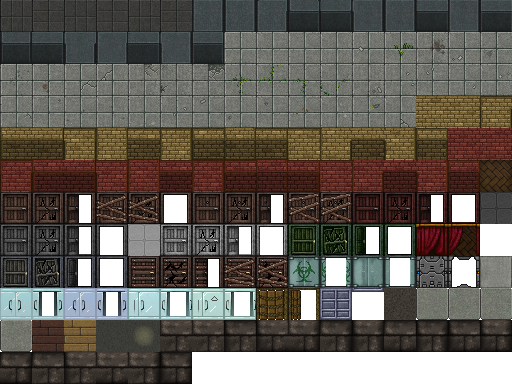
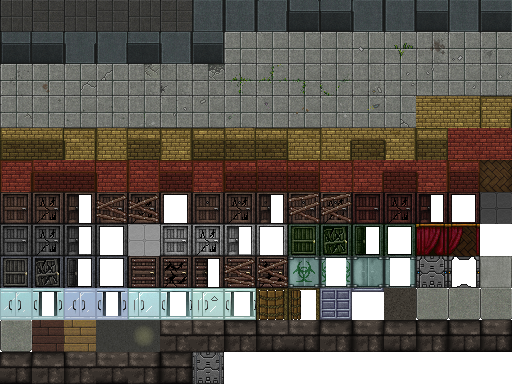
feat: welding metal doors shut, related updates (#6182)
* feat: welding metal doors shut, related updates

* Update json_flags.md

* Update terrain-doors.json

* updates per feedback

* Wrong door dummy

* Lil more thingies

* Update external_tileset.md

* I feex

Changed region(s): [[0.375, 0.9062, 0.4375, 1.0]]

diff --git a/doc/src/content/docs/en/mod/json/reference/graphics/external_tileset.md b/doc/src/content/docs/en/mod/json/reference/graphics/external_tileset.md
@@ -56,6 +56,7 @@ Links to relevant pull requests, for content covered below:
 - More tooth and bone weapons, triffid weapons:
   [#5712](https://github.com/cataclysmbnteam/Cataclysm-BN/pull/5712)
 - Treetops ported from DDA: [#5167](https://github.com/cataclysmbnteam/Cataclysm-BN/pull/5167)
+- Ability to weld shut doors: [#6182](https://github.com/cataclysmbnteam/Cataclysm-BN/pull/6182)
 
 ## Undead People
 
@@ -76,10 +77,6 @@ Ultica are planned for the future.
 - Large leather-reinforced shield, including worn and wielded. Item specific to BN.
 - Banded shield, including worn and wielded. Item specific to BN.
 - Large banded shield, including worn and wielded. Item specific to BN.
-- Swapped spring and summer sprites (the latter not depicting young berries) for blueberry bush, as
-  harvest season has been moved in BN.
-- Swapped spring and summer sprites (the latter not depicting young berries) for strawberry bush, as
-  harvest season has been moved in BN.
 - Fixed worn sprite for `woodgreatbow`, as it had a sprite error in its UDP version.
   `Note: this can be removed once UDP is updated in BN, as the fix has been published in the source repository.`
 - Overriding sprite for `compgreatbow`, as its version in BN is modeled after a composite bow
@@ -113,6 +110,9 @@ Ultica are planned for the future.
 
 - Rice paddies. Terrain specific to BN.
 - Niter beds. Terrain specific to BN.
+- Swapped spring and summer sprites (the latter not depicting young berries) for blueberry bush, as
+  harvest season has been moved in BN.
+- Welded-shut metal doors including peephole, bulkhead, lab door, and bar doors. Terrain specific to BN.
 
 ### External_Tileset_DP_Tall.png
 

diff --git a/doc/src/content/docs/en/mod/json/reference/json_flags.md b/doc/src/content/docs/en/mod/json/reference/json_flags.md
@@ -631,6 +631,10 @@ List of known flags, used in both `terrain.json` and `furniture.json`.
   smashed instead of destroying the tile beneath it.
 - `WALL` This terrain is an upright obstacle. Used for fungal conversion, and also implies
   `CONNECT_TO_WALL`.
+- `WELDABLE_DOOR` The "weld shut metal door" construction will convert this terrain into `t_door_metal_welded`.
+- `WELDABLE_BARS` As above, but converts to `t_door_metal_welded_bars` instead. If you want it to convert
+  into specific terrain instead, add a separate construction entry to the `weld_shut_metal_door` construction
+  group that uses `pre_terrain` instead of `pre_flags`.
 - `WINDOW` This terrain is a window, though it may be closed, broken, or covered up. Used by teh
   tiles code to align furniture sprites away from the window.
 
